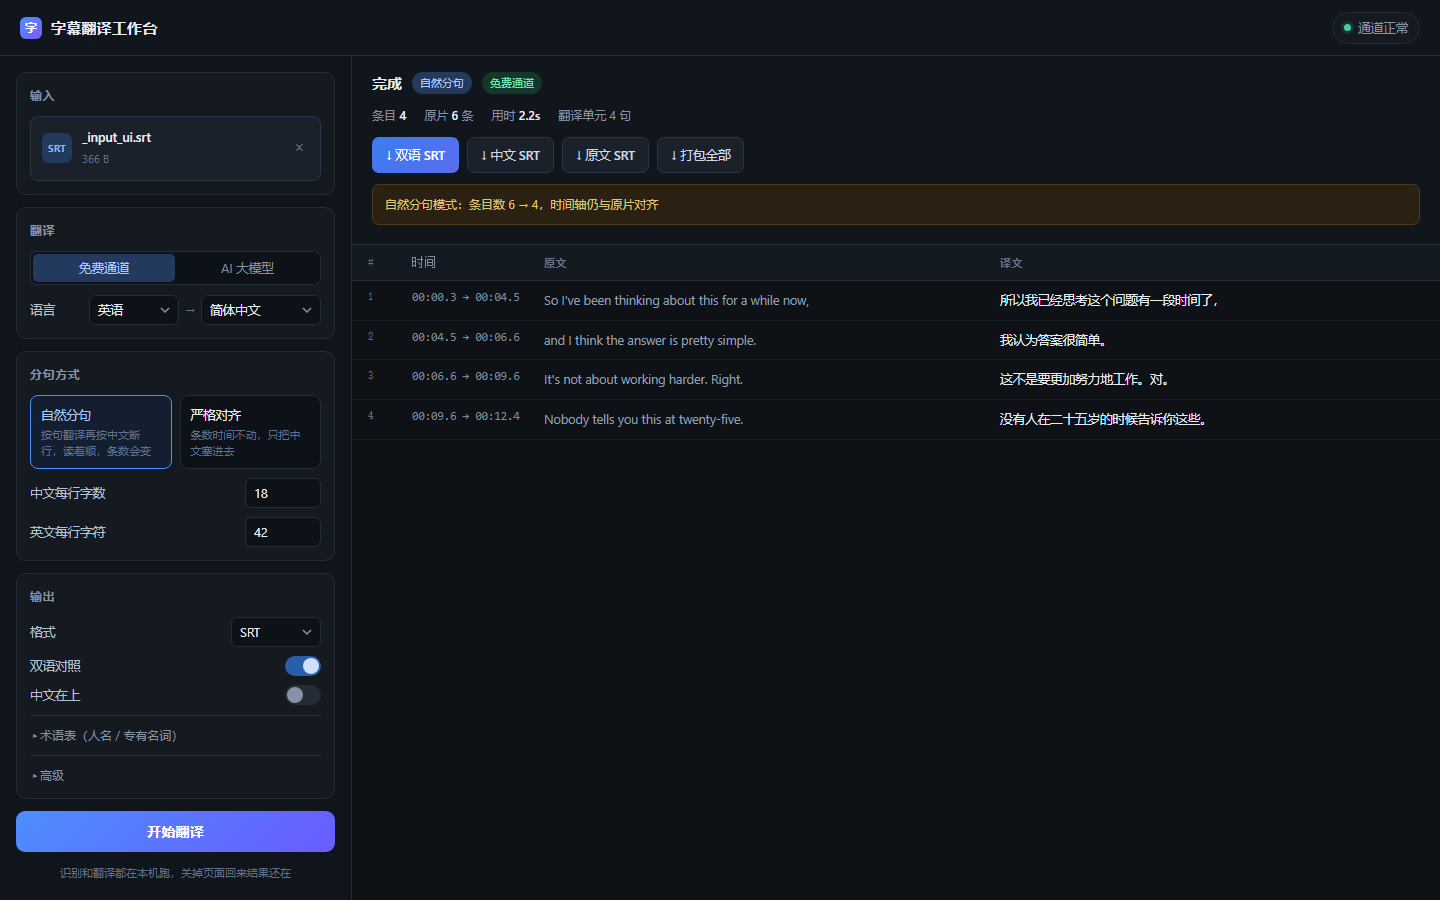
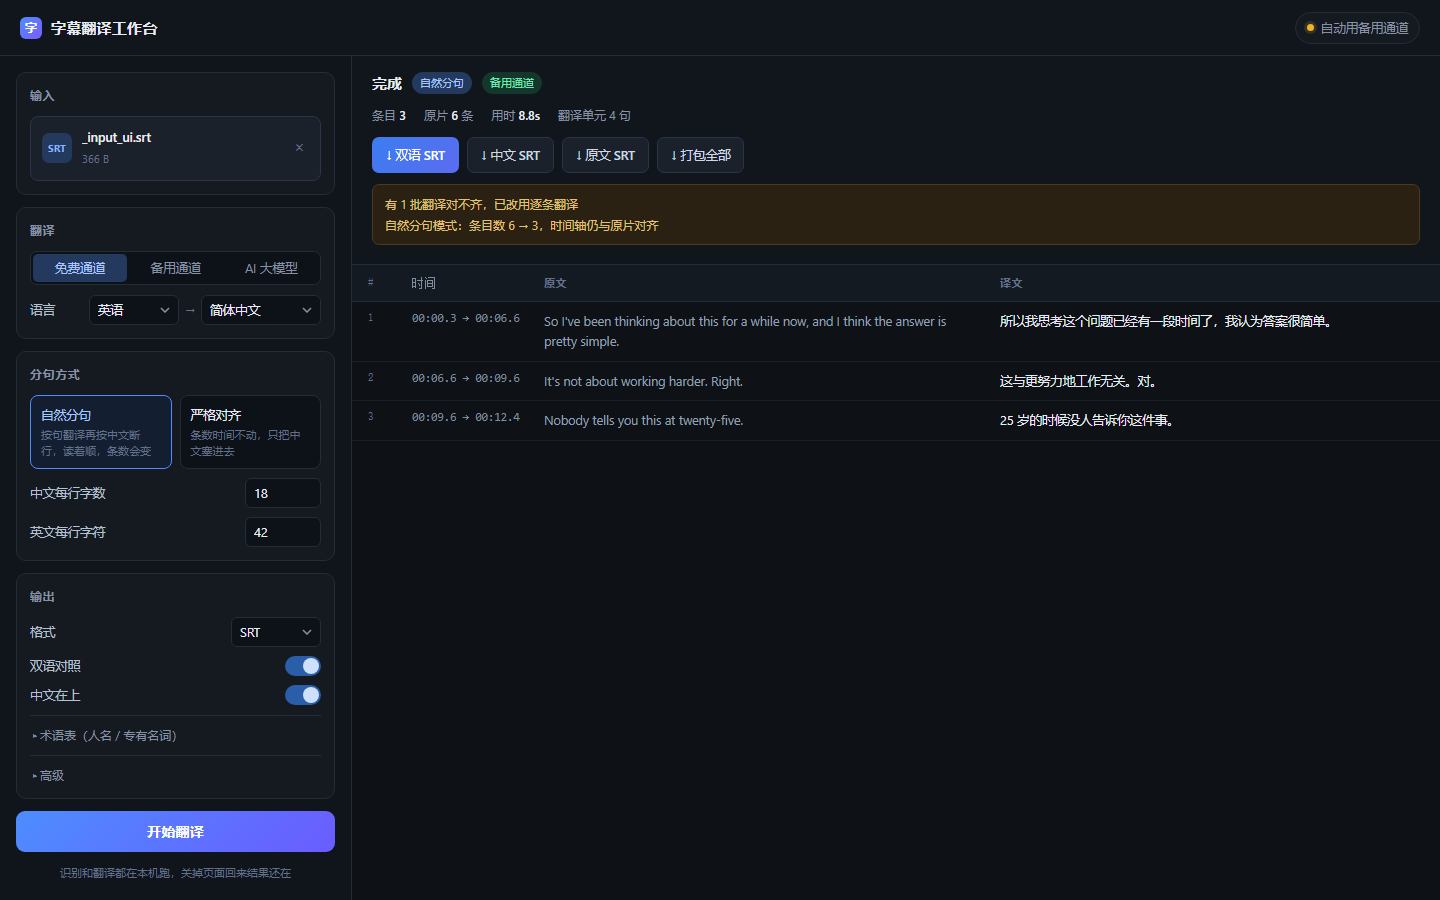
加一条免代理的备用通道，Google 不通也能直接出活
之前默认免费通道走 Google，国内直连不通就得先配代理，
否则连「试一下」的门槛都过不去。现在：

- 新增 MyMemory 通道（国内直连、免 Key），可手动选
- Google 连不上时自动降级过去，不会逐批重试干等十几分钟
- 右上角圆点三态：绿=通畅 / 黄=正在走兜底 / 红=真不通，
  黄灯时直接写明「Google 连不上，翻译时会自动改用备用通道」
- pipeline 的 engine_label 跟着区分三条通道

顺手修：_bat.log 误入库，加进 .gitignore。

diff --git a/static/index.html b/static/index.html
@@ -36,6 +36,7 @@ header .grow{flex:1}
 .dot{width:7px;height:7px;border-radius:50%;background:var(--dim2);flex:none}
 .dot.ok{background:var(--ok);box-shadow:0 0 0 3px rgba(69,209,155,.15)}
 .dot.bad{background:var(--err);box-shadow:0 0 0 3px rgba(255,107,107,.15)}
+.dot.warn{background:var(--warn);box-shadow:0 0 0 3px rgba(240,180,41,.15)}
 
 main{display:grid;grid-template-columns:352px minmax(0,1fr);height:calc(100% - 56px)}
 aside{
@@ -240,7 +241,12 @@ tbody tr:hover{background:#141b24}
       <h3>翻译</h3>
       <div class="seg" id="engineSeg">
         <button data-v="google" class="on">免费通道</button>
+        <button data-v="mymemory">备用通道</button>
         <button data-v="llm">AI 大模型</button>
+      </div>
+      <div id="mmNote" hidden style="font-size:12px;color:var(--dim2);line-height:1.65;margin-top:9px">
+        国内可直连，不用代理。按天有免费额度，长片建议换 AI 大模型。<br>
+        免费通道连不上时也会自动走这条。
       </div>
       <div id="llmBox" hidden>
         <div class="row"><label>接口地址</label></div>
@@ -474,10 +480,15 @@ tbody tr:hover{background:#141b24}
     saveSoon();
   });
 
+  function engineLabel(){
+    return state.engine === "llm" ? "AI 大模型"
+         : state.engine === "mymemory" ? "备用通道" : "免费通道";
+  }
+
   function syncEngine(){
-    var box = $("llmBox");
-    box.hidden = state.engine !== "llm";
-    $("badgeEngine").textContent = state.engine === "llm" ? "AI 大模型" : "免费通道";
+    $("llmBox").hidden = state.engine !== "llm";
+    $("mmNote").hidden = state.engine !== "mymemory";
+    $("badgeEngine").textContent = engineLabel();
     if (window.__st_ready) checkNet(false);      // 换通道就重测，别拿旧结论糊弄人
   }
 
@@ -534,12 +545,13 @@ tbody tr:hover{background:#141b24}
   /* ---------------- 加载设置 ---------------- */
   function applySettings(s){
     state.settings = s;
-    if (s.engine === "llm") {
-      state.engine = "llm";
+    if (s.engine && s.engine !== "google") {
+      state.engine = s.engine;
       Array.prototype.forEach.call($("engineSeg").children, function(x){
-        x.classList.toggle("on", x.dataset.v === "llm");
+        x.classList.toggle("on", x.dataset.v === s.engine);
       });
-      $("llmBox").hidden = false;
+      $("llmBox").hidden = s.engine !== "llm";
+      $("mmNote").hidden = s.engine !== "mymemory";
     }
     if (s.mode === "strict") {
       state.mode = "strict";
@@ -583,17 +595,26 @@ tbody tr:hover{background:#141b24}
       .then(function(d){
         if (d.ok) {
           dot.className = "dot ok";
-          txt.textContent = d.engine === "llm" ? "大模型就绪" : "通道正常";
+          txt.textContent = d.engine === "llm" ? "大模型就绪"
+                          : d.engine === "mymemory" ? "备用通道就绪" : "通道正常";
           $("netPill").title = "走 " + d.via + "，点一下重测";
+        } else if (d.fallback) {
+          // Google 不通但备用通道在 —— 不算坏消息，别让人白折腾代理
+          dot.className = "dot warn";
+          txt.textContent = "自动用备用通道";
+          $("netPill").title = d.fallback + "，点一下重测";
         } else {
           dot.className = "dot bad";
-          txt.textContent = d.engine === "llm" ? "大模型没通" : "通道不通";
+          txt.textContent = d.engine === "llm" ? "大模型没通"
+                          : d.engine === "mymemory" ? "备用通道不通" : "通道不通";
           $("netPill").title = d.error || "";
           if (manual) {
             var hint = d.engine === "llm"
               ? "\n检查接口地址（一般写到 /v1）、Key 和模型名。"
-              : "\n免费通道要能访问 Google。本机走代理的话，在「高级」里把代理地址填对；" +
-                "或者切到「AI 大模型」用国内接口，那个不用代理。";
+              : d.engine === "mymemory"
+              ? "\n备用通道要能访问 api.mymemory.translated.net，检查网络或代理设置。"
+              : "\n免费通道要能访问 Google。本机走代理的话，把代理地址填对；" +
+                "或者切到「备用通道」（国内直连）或「AI 大模型」。";
             showError("翻译通道连不上：" + (d.error || "") + hint);
           }
         }

diff --git a/docs/index.html b/docs/index.html
@@ -240,7 +240,8 @@ python3 app.py</code></pre>
       <summary>翻译通道连不上怎么办？</summary>
       <div class="body">
         <p>默认的免费通道走 Google 接口，国内直连不通，需要代理。右上角有个圆点，点一下就知道通不通。</p>
-        <p>不想折腾代理就切「AI 大模型」，填个硅基流动或 DeepSeek 的 Key —— 国内直连，而且翻得更像人话。</p>
+        <p><b>不通也照样能用</b>：会自动改用免代理的备用通道（MyMemory，国内直连），只是逐条翻、慢一点。圆点是黄的，就说明正在走兜底。</p>
+        <p>想翻得更像人话就切「AI 大模型」，填个硅基流动或 DeepSeek 的 Key —— 国内直连。</p>
       </div>
     </details>
 

diff --git a/core/translate.py b/core/translate.py
@@ -22,6 +22,10 @@ from concurrent.futures import ThreadPoolExecutor
 GOOGLE_URL = ("https://translate.googleapis.com/translate_a/single"
               "?client=gtx&sl={sl}&tl={tl}&dt=t&q={q}")
 
+# 备用通道：国内可直连、免 key，按天有额度。质量接近 Google，但只能逐条问。
+MYMEMORY_URL = "https://api.mymemory.translated.net/get?q={q}&langpair={pair}"
+_MYMEMORY_BAD = ("MYMEMORY WARNING", "QUERY LENGTH LIMIT", "USED ALL AVAILABLE")
+
 # 口语缩写先展开：机翻对 gonna / wanna 的处理很不稳定
 _SPOKEN = {
     r"\bgonna\b": "going to", r"\bwanna\b": "want to", r"\bgotta\b": "have to",
@@ -155,7 +159,7 @@ class Translator:
         self.terms = parse_glossary(glossary)
         self.log = log or (lambda m: None)
         self._lock = __import__("threading").Lock()
-        self.stats = {"batches": 0, "fallbacks": 0, "term_lost": 0}
+        self.stats = {"batches": 0, "fallbacks": 0, "term_lost": 0, "mymemory": 0}
 
     # ---- HTTP
     def _openers(self):
@@ -167,13 +171,15 @@ class Translator:
         out.append(urllib.request.build_opener(urllib.request.ProxyHandler({})))
         return out
 
-    def _fetch(self, url: str, data: bytes | None = None, headers: dict | None = None) -> bytes:
+    def _fetch(self, url: str, data: bytes | None = None, headers: dict | None = None,
+               tries: int = 3, timeout: float | None = None) -> bytes:
+        timeout = timeout or self.timeout
         last: Exception | None = None
         for opener in self._openers():
-            for attempt in range(3):
+            for attempt in range(tries):
                 try:
                     req = urllib.request.Request(url, data=data, headers=headers or {})
-                    with opener.open(req, timeout=self.timeout) as r:
+                    with opener.open(req, timeout=timeout) as r:
                         return r.read()
                 except urllib.error.HTTPError as e:
                     last = e
@@ -204,6 +210,17 @@ class Translator:
         return None
 
     def _google(self, texts: list[str], sl: str, tl: str, workers: int = 6) -> list[str]:
+        # 先花几秒确认通道通不通。被墙时逐批重试要白等十几分钟，
+        # 不如干脆点，直接换免代理的备用通道。
+        try:
+            self._fetch(GOOGLE_URL.format(sl=sl, tl=tl, q="hi"),
+                        headers={"User-Agent": "Mozilla/5.0"}, tries=1, timeout=6)
+        except TranslateError:
+            with self._lock:
+                self.stats["fallbacks"] += 1
+            self.log("免费通道连不上，自动改用备用通道（免代理，有每日额度）")
+            return self._mymemory(texts, "en" if sl == "auto" else sl, tl)
+
         results: list[str | None] = [None] * len(texts)
         # 按总字符数切批，避免 URL 过长被截断
         batches: list[list[int]] = []
@@ -244,6 +261,45 @@ class Translator:
         with ThreadPoolExecutor(max_workers=max(1, min(workers, len(batches) or 1))) as ex:
             list(ex.map(work, batches))
         return [r if r is not None else "" for r in results]
+
+    # ---- MyMemory（国内直连，免 key，按天额度）
+    def _mymemory_one(self, text: str, sl: str, tl: str) -> str:
+        if not text.strip():
+            return ""
+        url = MYMEMORY_URL.format(
+            q=urllib.parse.quote(text),
+            pair=urllib.parse.quote(f"{sl}|{tl}"))
+        raw = self._fetch(url, headers={"User-Agent": "Mozilla/5.0"}, tries=2, timeout=15)
+        try:
+            data = json.loads(raw.decode("utf-8", "replace"))
+        except Exception:
+            return ""
+        if str(data.get("responseStatus", "")) != "200":
+            return ""
+        out = ((data.get("responseData") or {}).get("translatedText") or "").strip()
+        if any(bad in out.upper() for bad in _MYMEMORY_BAD):
+            return ""                     # 额度用完了，别把警告文字当译文
+        return out
+
+    def _mymemory(self, texts: list[str], sl: str, tl: str, workers: int = 3) -> list[str]:
+        if not texts:
+            return []
+        results: list[str] = [""] * len(texts)
+
+        def work(i: int) -> None:
+            for attempt in range(2):
+                try:
+                    results[i] = self._mymemory_one(texts[i], sl, tl)
+                    return
+                except TranslateError:
+                    time.sleep(0.8 * (attempt + 1))
+
+        with ThreadPoolExecutor(max_workers=max(1, min(workers, len(texts)))) as ex:
+            list(ex.map(work, range(len(texts))))
+        with self._lock:
+            self.stats["mymemory"] = self.stats.get("mymemory", 0) + sum(
+                1 for r in results if r)
+        return results
 
     # ---- LLM
     _SYS = (
@@ -349,6 +405,8 @@ class Translator:
 
         if self.engine == "llm":
             raw = self._llm(prepared, sl, tl)
+        elif self.engine == "mymemory":
+            raw = self._mymemory(prepared, "en" if sl == "auto" else sl, tl)
         else:
             raw = self._google(prepared, sl, tl)
 

diff --git a/core/pipeline.py b/core/pipeline.py
@@ -64,7 +64,10 @@ def _natural_cues(sentences: list[dict], zh_list: list[str],
                   zh_line: int, en_line: int) -> list[dict]:
     out: list[dict] = []
     for s, z in zip(sentences, zh_list):
-        pairs = textseg.split_pair(s["en"], z, zh_line, en_line * 2)
+        # 一条字幕能占两行，中文容量就得按两行算（zh_line 是每行字数）。
+        # 之前只给单行容量，中文被多切一刀，切点比例就跟英文错开了 —— 明明
+        # 「And I learned that the hard way,」却配上「我了解到，相信我，」。
+        pairs = textseg.split_pair(s["en"], z, zh_line * 2, en_line * 2)
         # 时间按中文分：观众读的是中文，按英文长度分会让中文多的那条来不及看
         weights = [max(1, textseg.count_chars(zz)) if zz.strip()
                    else max(1, len(e.strip())) for e, zz in pairs]
@@ -87,7 +90,7 @@ def _merge_short(cues: list[dict], zh_line: int, en_line: int,
             if too_short:
                 en_len = len(last["en"]) + len(c["en"]) + 1
                 zh_len = len(last["zh"]) + len(c["zh"])
-                if en_len <= en_line * 2 and zh_len <= zh_line * 1.45:
+                if en_len <= en_line * 2 and zh_len <= zh_line * 2.2:
                     last["end"] = c["end"]
                     last["en"] = textseg.join_fragments(last["en"], c["en"])
                     last["zh"] = last["zh"] + c["zh"]
@@ -255,6 +258,11 @@ def run(job: "jobs_mod.Job", src_path: str, filename: str, params: dict) -> dict
     job.log(f"完成，用时 {elapsed}s")
     preview = [{"start": c["start"], "end": c["end"], "en": c["en"], "zh": c["zh"]}
                for c in out_cues[:400]]
+    # Google 没连上时实际走的是备用通道，标签得说实话
+    real_engine = tr.engine
+    if real_engine == "google" and tr.stats.get("mymemory"):
+        real_engine = "mymemory"
+    label = {"llm": "AI 大模型", "mymemory": "备用通道"}.get(real_engine, "免费通道")
     return {
         "files": made,
         "cues": preview,
@@ -263,8 +271,8 @@ def run(job: "jobs_mod.Job", src_path: str, filename: str, params: dict) -> dict
         "sentence_count": len(sentences),
         "input": info_in,
         "elapsed": elapsed,
-        "engine": tr.engine,
-        "engine_label": "AI 大模型" if tr.engine == "llm" else "免费通道",
+        "engine": real_engine,
+        "engine_label": label,
         "mode": mode,
         "warnings": warnings,
         "source_lang": source,

diff --git a/core/config.py b/core/config.py
@@ -122,6 +122,22 @@ def probe_proxy(proxy: str = "", timeout: float = 6.0) -> dict:
     return {"ok": False, "via": "", "error": "代理和直连都不通，检查网络或换个代理地址"}
 
 
+def probe_mymemory(timeout: float = 12.0) -> dict:
+    """备用通道：国内直连，免 key。通不通不能靠猜。"""
+    url = ("https://api.mymemory.translated.net/get"
+           "?q=hello&langpair=en%7Czh-CN")
+    try:
+        op = urllib.request.build_opener(urllib.request.ProxyHandler({}))
+        with op.open(urllib.request.Request(url, headers={"User-Agent": "Mozilla/5.0"}),
+                     timeout=timeout) as r:
+            body = r.read().decode("utf-8", "replace")
+        if r.status == 200 and "translatedText" in body and "MYMEMORY WARNING" not in body.upper():
+            return {"ok": True, "via": "直连（免代理）"}
+        return {"ok": False, "via": "", "error": "接口有响应但内容异常"}
+    except Exception as e:
+        return {"ok": False, "via": "", "error": f"连不上：{type(e).__name__}"}
+
+
 def probe_llm(base: str, key: str, model: str, timeout: float = 12.0) -> dict:
     """测大模型通道。报错要说人话 —— "401" 对普通用户等于没说。"""
     if not base:

diff --git a/app.py b/app.py
@@ -72,8 +72,16 @@ def test_conn():
             body.get("llm_key") or s.get("llm_key", ""),
             body.get("llm_model") or s.get("llm_model", ""),
         )
+    elif engine == "mymemory":
+        res = config.probe_mymemory()
     else:
         res = config.probe_proxy(body.get("proxy", s.get("proxy", "")))
+        if not res.get("ok"):
+            # Google 不通不代表不能用：翻译时会自动降级到备用通道。
+            # 这里先说清楚，别让人以为坏了跑去折腾代理。
+            alt = config.probe_mymemory()
+            if alt.get("ok"):
+                res["fallback"] = "Google 连不上，翻译时会自动改用备用通道（国内直连）"
     res["engine"] = engine
     res["ffmpeg"] = bool(s.get("ffmpeg_dir"))
     return jsonify(res)

diff --git a/tests/test_api.py b/tests/test_api.py
@@ -52,7 +52,8 @@ def check(cond, msg):
 
 
 print("1) 通道检测")
-r = requests.post(BASE + "/api/test", json={"proxy": "http://127.0.0.1:33210"}, timeout=30)
+# 测免代理的备用通道：不依赖本机有没有代理，跑得稳
+r = requests.post(BASE + "/api/test", json={"engine": "mymemory"}, timeout=30)
 d = r.json()
 check(d.get("ok") is True, f"翻译通道：{d}")
 

diff --git a/README.md b/README.md
@@ -57,16 +57,17 @@ python3 app.py
 
 ---
 
-## 两条翻译通道
+## 三条翻译通道
 
-| | 免费通道 | AI 大模型 |
-|---|---|---|
-| 引擎 | Google 网页接口 | 任意 OpenAI 兼容接口 |
-| 要 Key | 不用 | 要 |
-| 网络 | 国内需代理 | 硅基流动 / DeepSeek 国内直连 |
-| 效果 | 够用 | 更像人话 |
+| | 免费通道 | 备用通道 | AI 大模型 |
+|---|---|---|---|
+| 引擎 | Google 网页接口 | MyMemory | 任意 OpenAI 兼容接口 |
+| 要 Key | 不用 | 不用 | 要 |
+| 网络 | 国内需代理 | **国内直连** | 硅基流动 / DeepSeek 国内直连 |
+| 效果 | 够用 | 够用 | 更像人话 |
 
 免费通道多行批量翻，1600 字符一批，57 句 1.7 秒；行数对不上就自动降级逐条并发。
+**Google 连不上时会自动改用备用通道**，不用手动切换——右上角圆点是黄的，就说明正在走兜底。
 术语表里的词用占位符锁住，翻完再换回去，不会被机翻乱改。
 
 ---
@@ -79,7 +80,7 @@ python3 app.py
 | 每行字数 | 中文每条上限、英文每行上限 | 18 / 42 |
 | 输出格式 | SRT / VTT / ASS | SRT |
 | 识别模型 | tiny / base / small / medium / large-v3 | small |
-| 代理 | 免费通道要用 | 空 |
+| 代理 | 免费通道要用，备用通道/AI 不用 | 空 |
 
 识别模型第一次用会自动下载（small 约 480MB），走 hf-mirror 直连 + 断点续传，只下一次。
 
@@ -87,7 +88,7 @@ python3 app.py
 
 ## 常见问题
 
-**翻译通道连不上？** 免费通道走 Google 接口，国内直连不通。右上角圆点能测通断。不想折腾代理就切「AI 大模型」。
+**翻译通道连不上？** 免费通道走 Google 接口，国内直连不通。右上角圆点能测通断：绿灯最省事，黄灯表示 Google 不通、正在用免代理的备用通道（照样能用，只是逐条翻、慢一两倍），红灯才是真连不上。想翻得更像人话就切「AI 大模型」，填硅基流动或 DeepSeek 的 Key，那个国内直连。
 
 **长音频要等多久？** 首次要下模型。13 秒的英文音频，识别加翻译约 8 秒（模型已加载时）。
 
